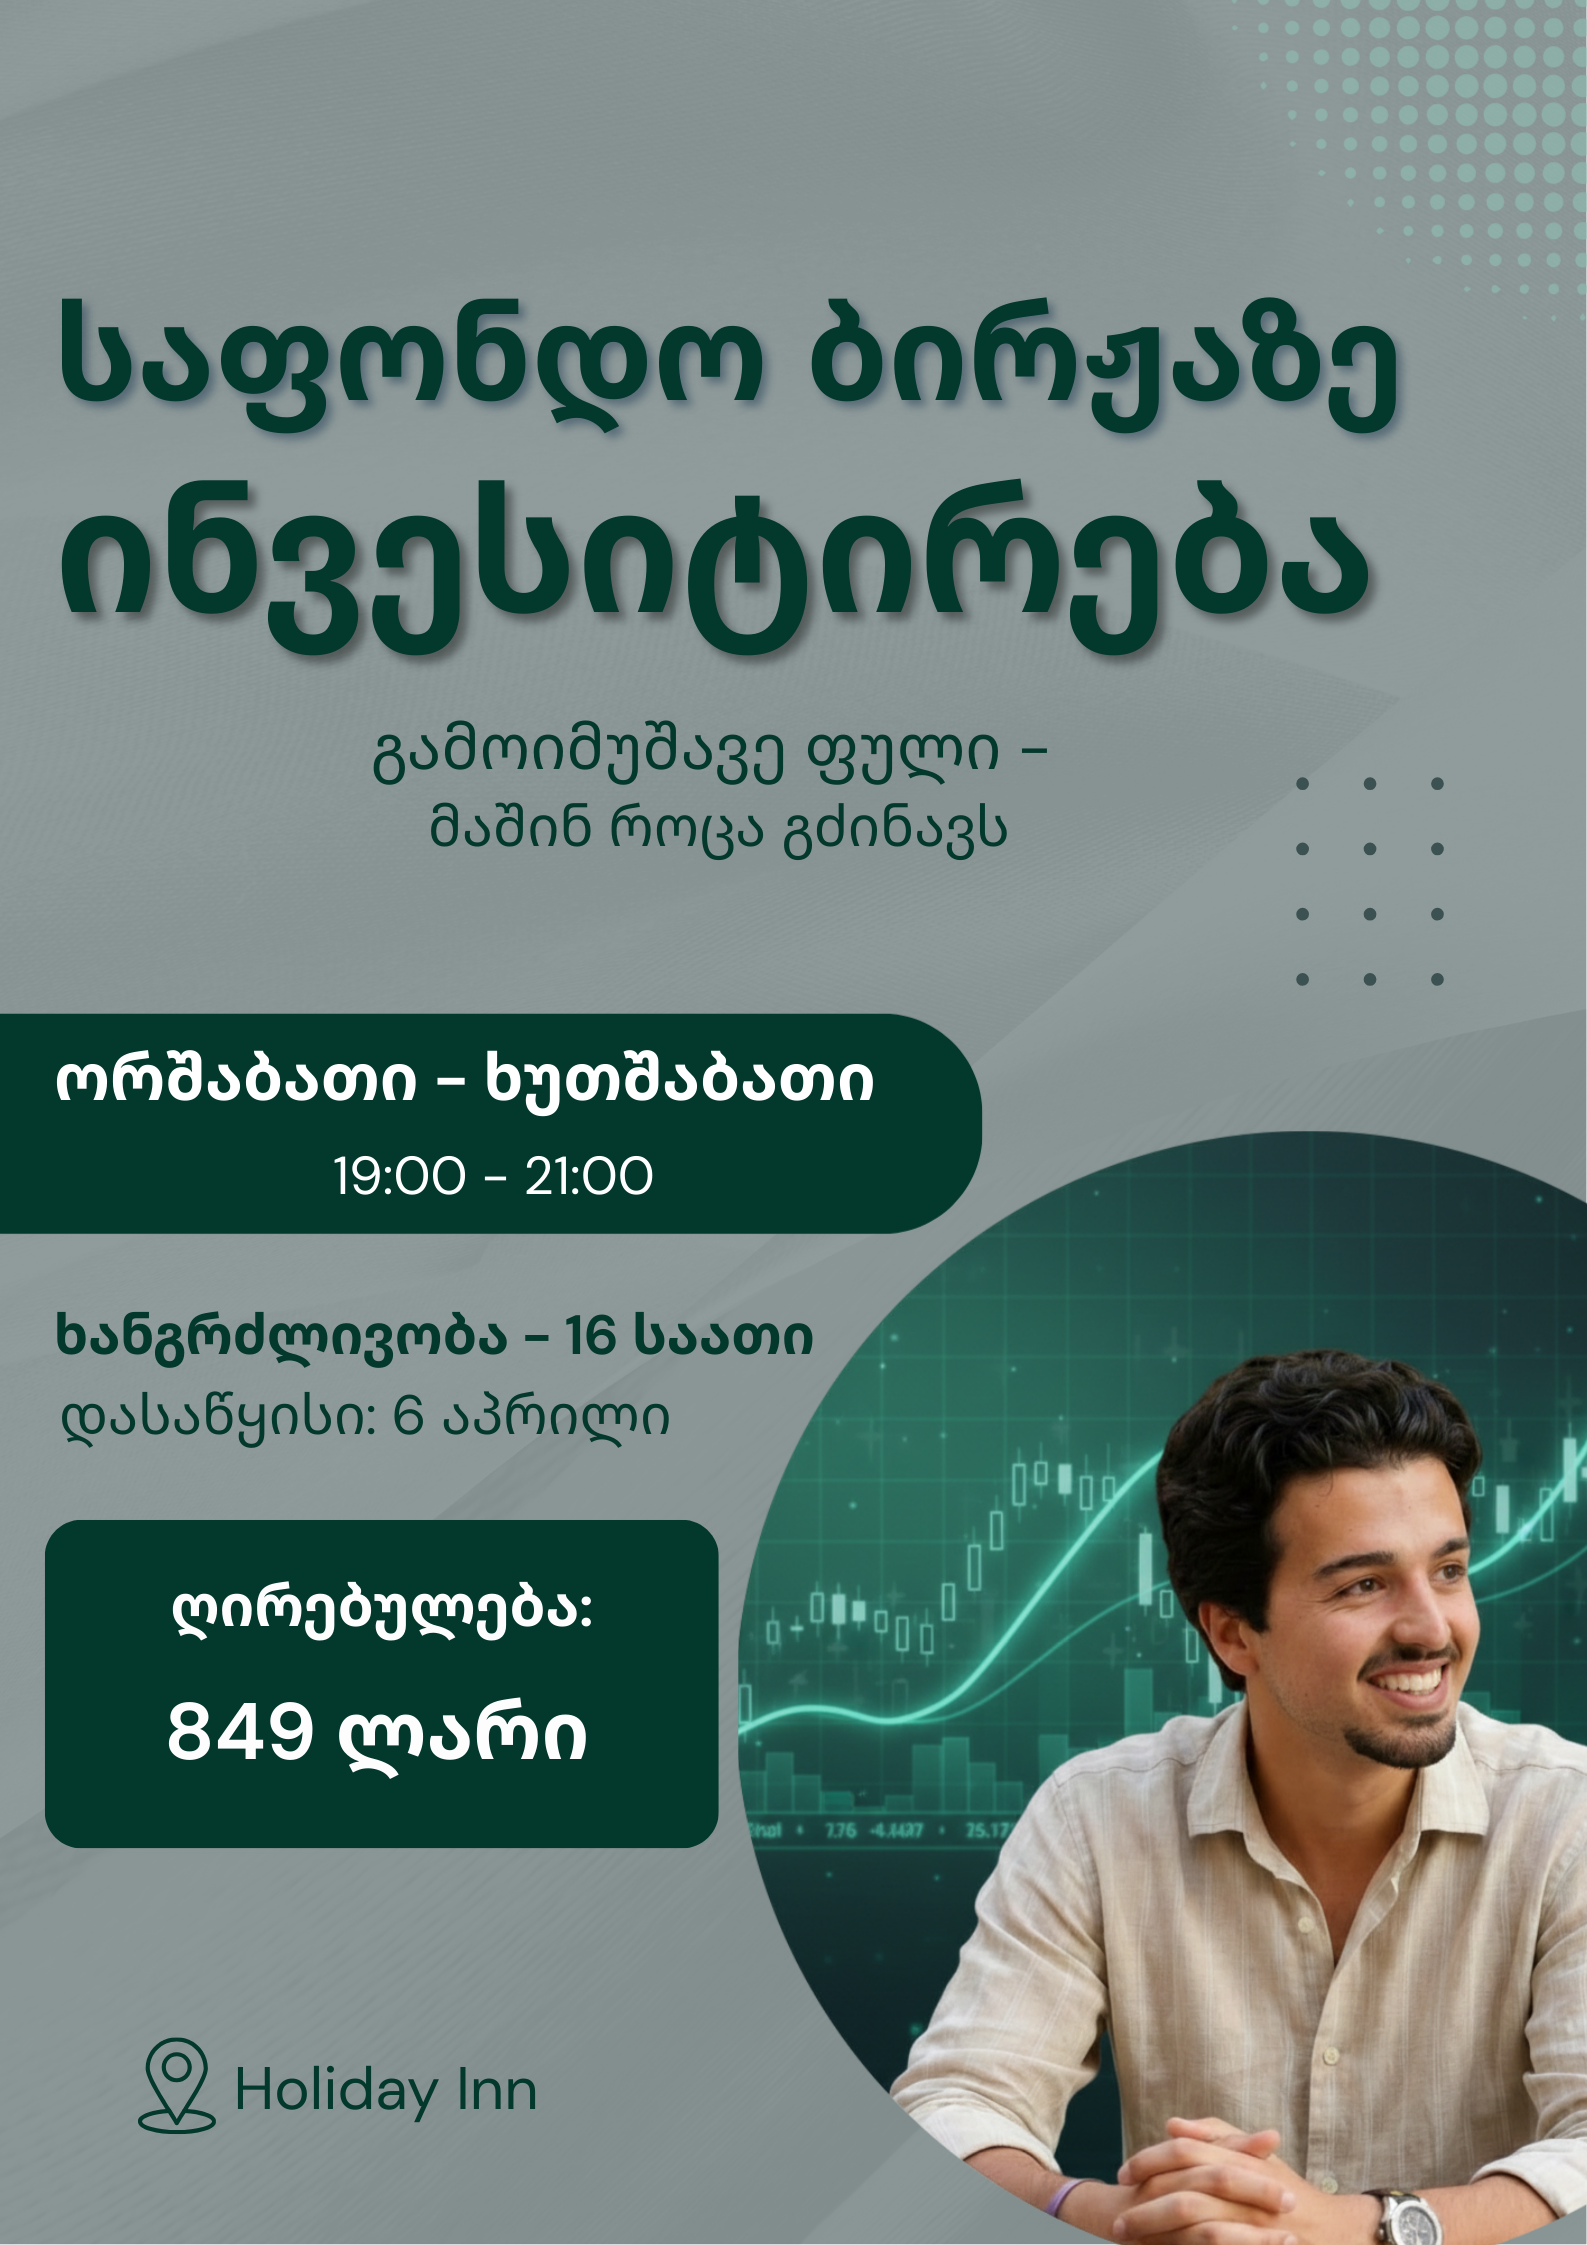
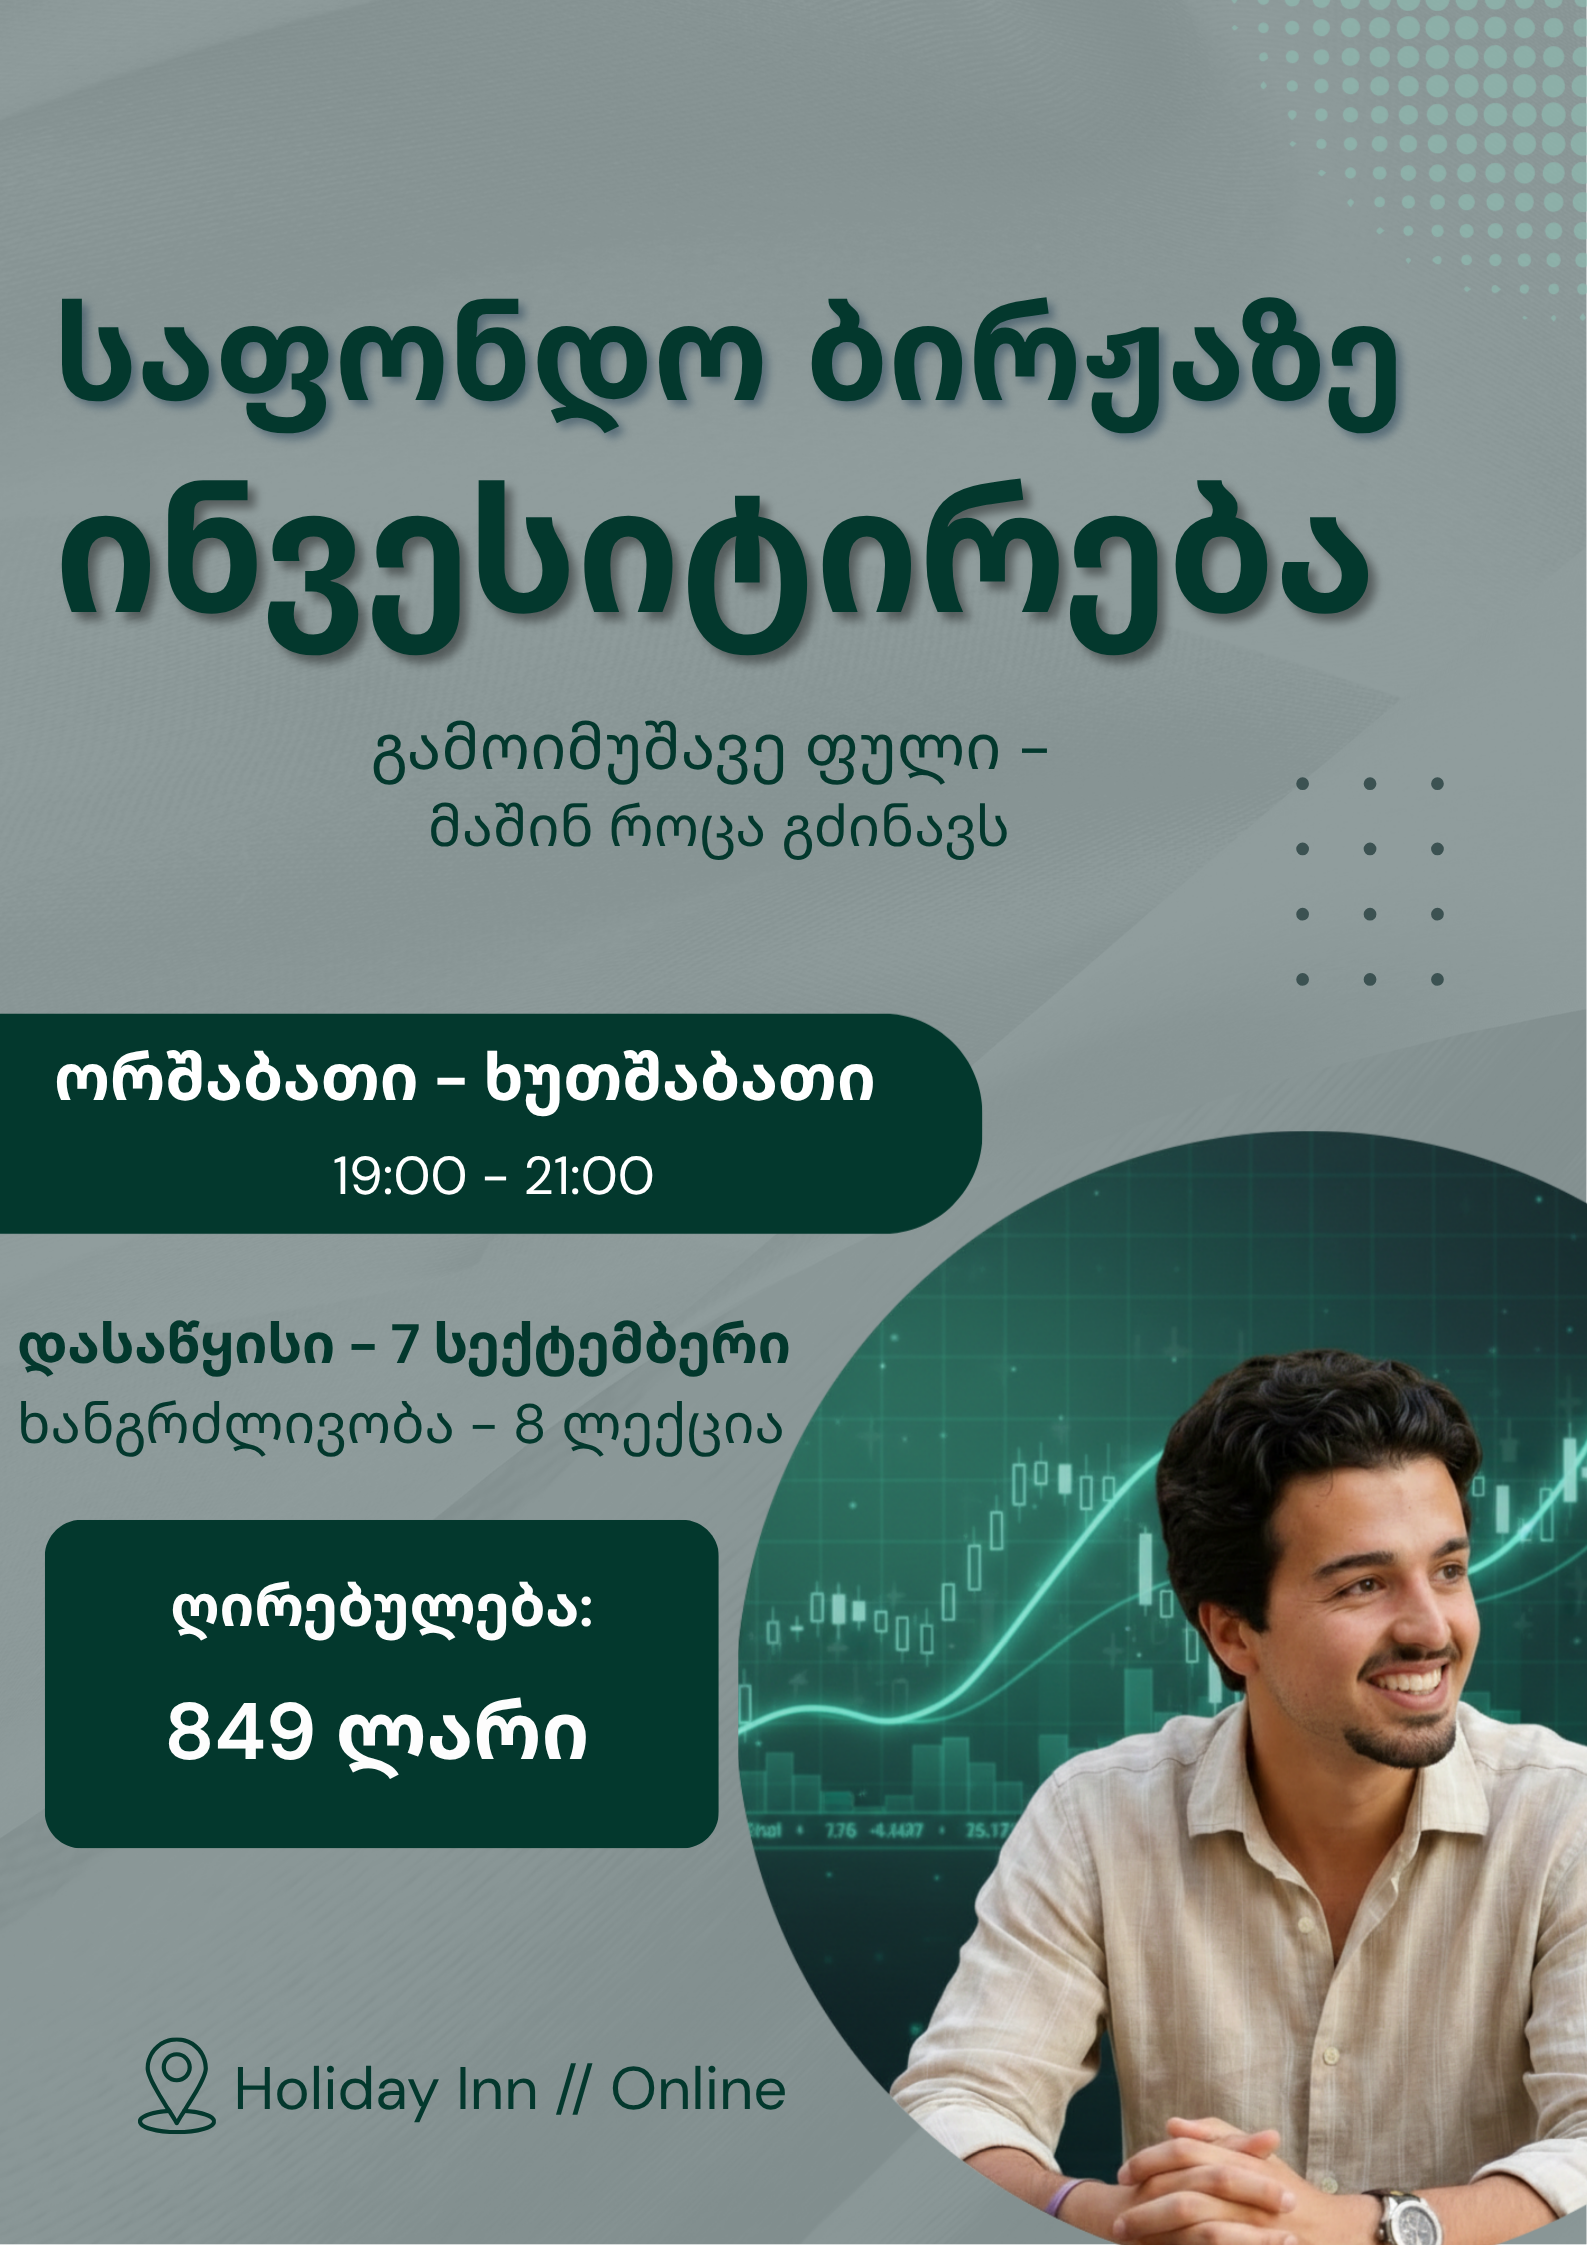
sheicvala beros foto

Changed region(s): [[0.0, 0.5612, 0.5249, 0.6548], [0.4014, 0.9042, 0.494, 0.9354], [0.3396, 0.9042, 0.3705, 0.9354]]

diff --git a/src/pages/homePage/secondSection/secondSection.tsx b/src/pages/homePage/secondSection/secondSection.tsx
@@ -31,7 +31,7 @@ const SingleCard = ({
   return (
     <div
       onClick={handleCardClick}
-      className={`group relative overflow-hidden rounded-[20px] transition-all duration-300 h-full min-h-[450px] flex flex-col shadow-lg
+      className={`group relative overflow-hidden rounded-[20px] transition-all duration-300 h-full min-h-[520px] flex flex-col shadow-lg
         ${
           !card.isDisabled
             ? "cursor-pointer"
